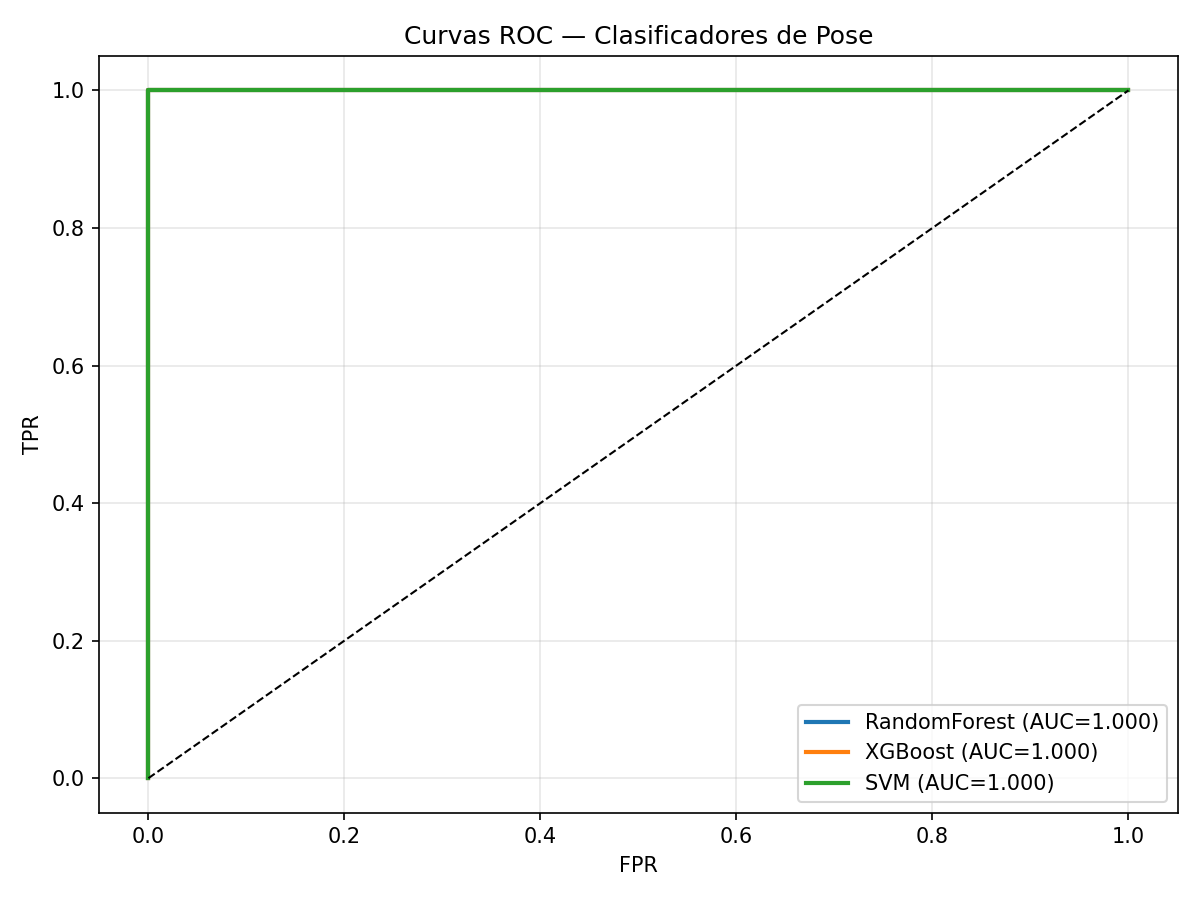
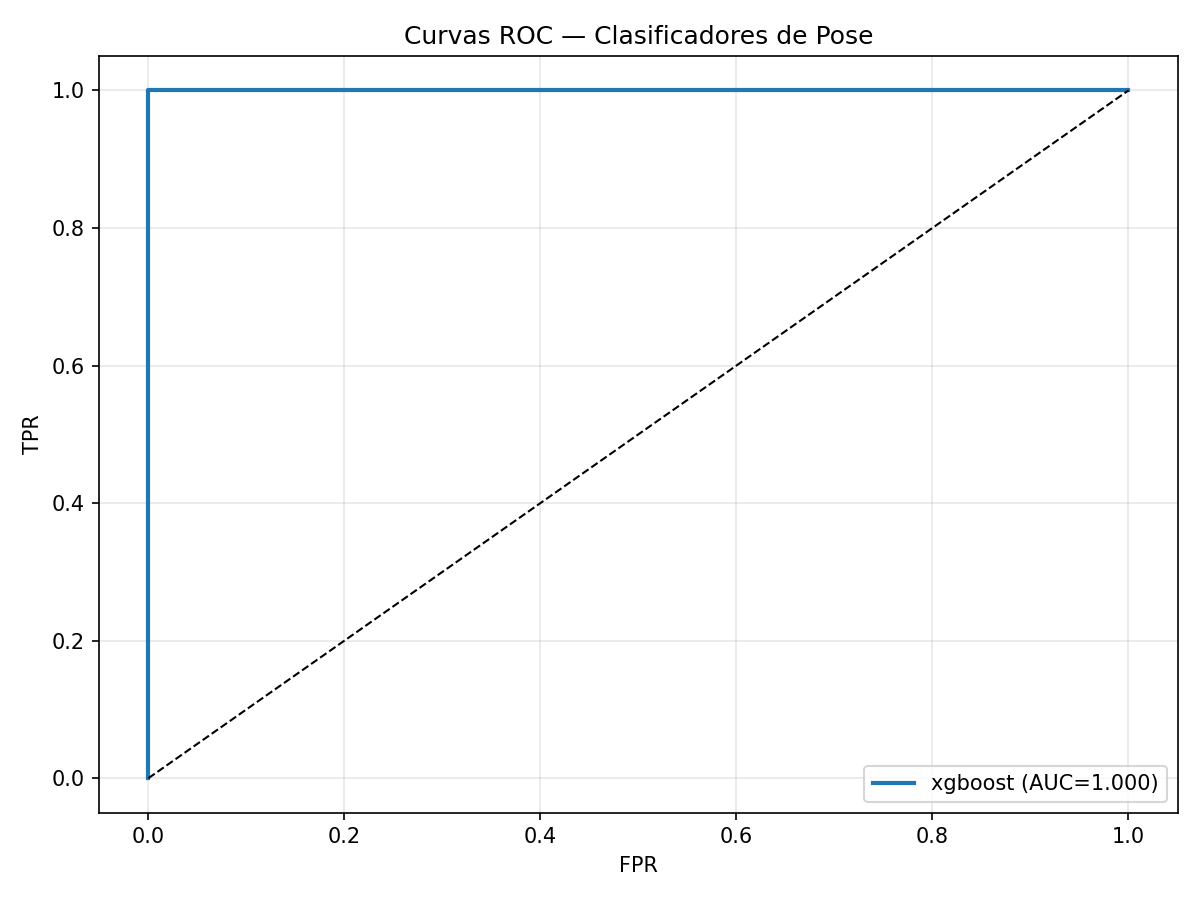
.

Changed region(s): [[0.6475, 0.7778, 0.9867, 0.9022], [0.1233, 0.0933, 0.9558, 0.1244]]

diff --git a/robustness_values.py b/robustness_values.py
@@ -1,0 +1,12 @@
+import pickle, numpy as np
+for name, path in [
+    ("E1 CNN",    "outputs/robustness/robustness_cnn/robustness_results.pkl"),
+    ("E2 Pose",   "outputs/robustness/robustness_pose/robustness_results.pkl"),
+    ("E3 Hybrid", "outputs/robustness/robustness_hybrid/robustness_results.pkl"),
+]:
+    with open(path, "rb") as f: r = pickle.load(f)
+    print(f"\n{name}")
+    for sigma, folds in r.items():
+        f1  = np.mean([d["f1"]  for d in folds])
+        auc = np.mean([d["auc"] for d in folds if not np.isnan(d["auc"])])
+        print(f"  σ={sigma:.2f}  F1={f1:.4f}  AUC={auc:.4f}")
